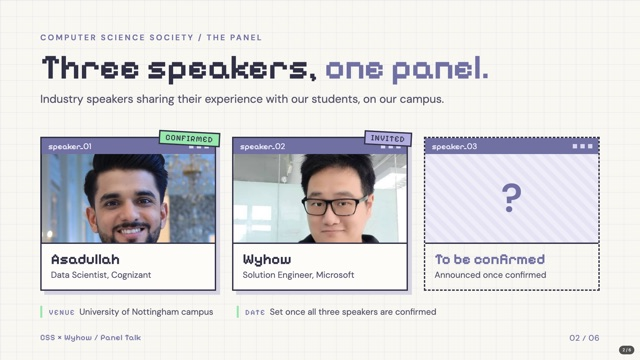
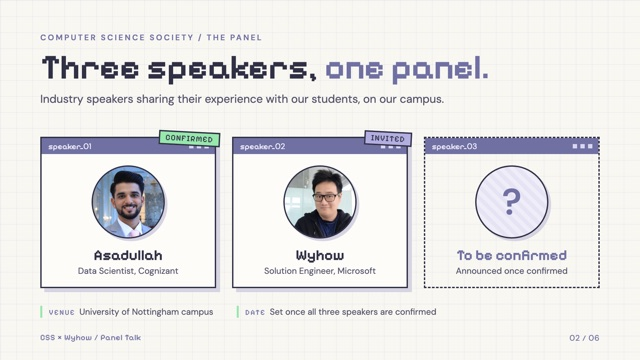
Show the speaker photos as small circular portraits

diff --git a/external/01-wyhow-panel/index.html b/external/01-wyhow-panel/index.html
@@ -60,9 +60,11 @@
     .person{position:relative;border:4px solid var(--ink);background:var(--card);box-shadow:12px 12px 0 var(--shadow)}
     .person .bar{height:48px;font-size:24px;padding:0 18px 0 20px}
     .person .lights i{width:13px;height:13px}
-    .person .photo{display:block;width:100%;height:270px;object-fit:cover;object-position:center 28%;border-bottom:4px solid var(--ink);background:var(--lavender)}
-    .person .blank{display:grid;place-items:center;width:100%;height:270px;border-bottom:4px solid var(--ink);background:repeating-linear-gradient(45deg,#efedf8,#efedf8 14px,#e6e3f4 14px,#e6e3f4 28px);color:var(--purple);font:600 120px DM,Arial,sans-serif}
-    .person .info{padding:22px 28px 26px}
+    .person{text-align:center}
+    .person .photo,.person .blank{display:block;width:220px;height:220px;margin:34px auto 0;border:4px solid var(--ink);border-radius:var(--shape,50%);box-shadow:8px 8px 0 var(--shadow)}
+    .person .photo{object-fit:cover;object-position:center 30%;background:var(--lavender)}
+    .person .blank{display:grid;place-items:center;background:repeating-linear-gradient(45deg,#efedf8,#efedf8 12px,#e6e3f4 12px,#e6e3f4 24px);color:var(--purple);font:600 110px DM,Arial,sans-serif}
+    .person .info{padding:26px 28px 30px}
     .person h3{font-size:44px;line-height:1.1}
     .person .role{margin-top:6px;font-size:26px;line-height:1.35;color:var(--muted)}
     .person.open{border-style:dashed;background:transparent;box-shadow:none}
